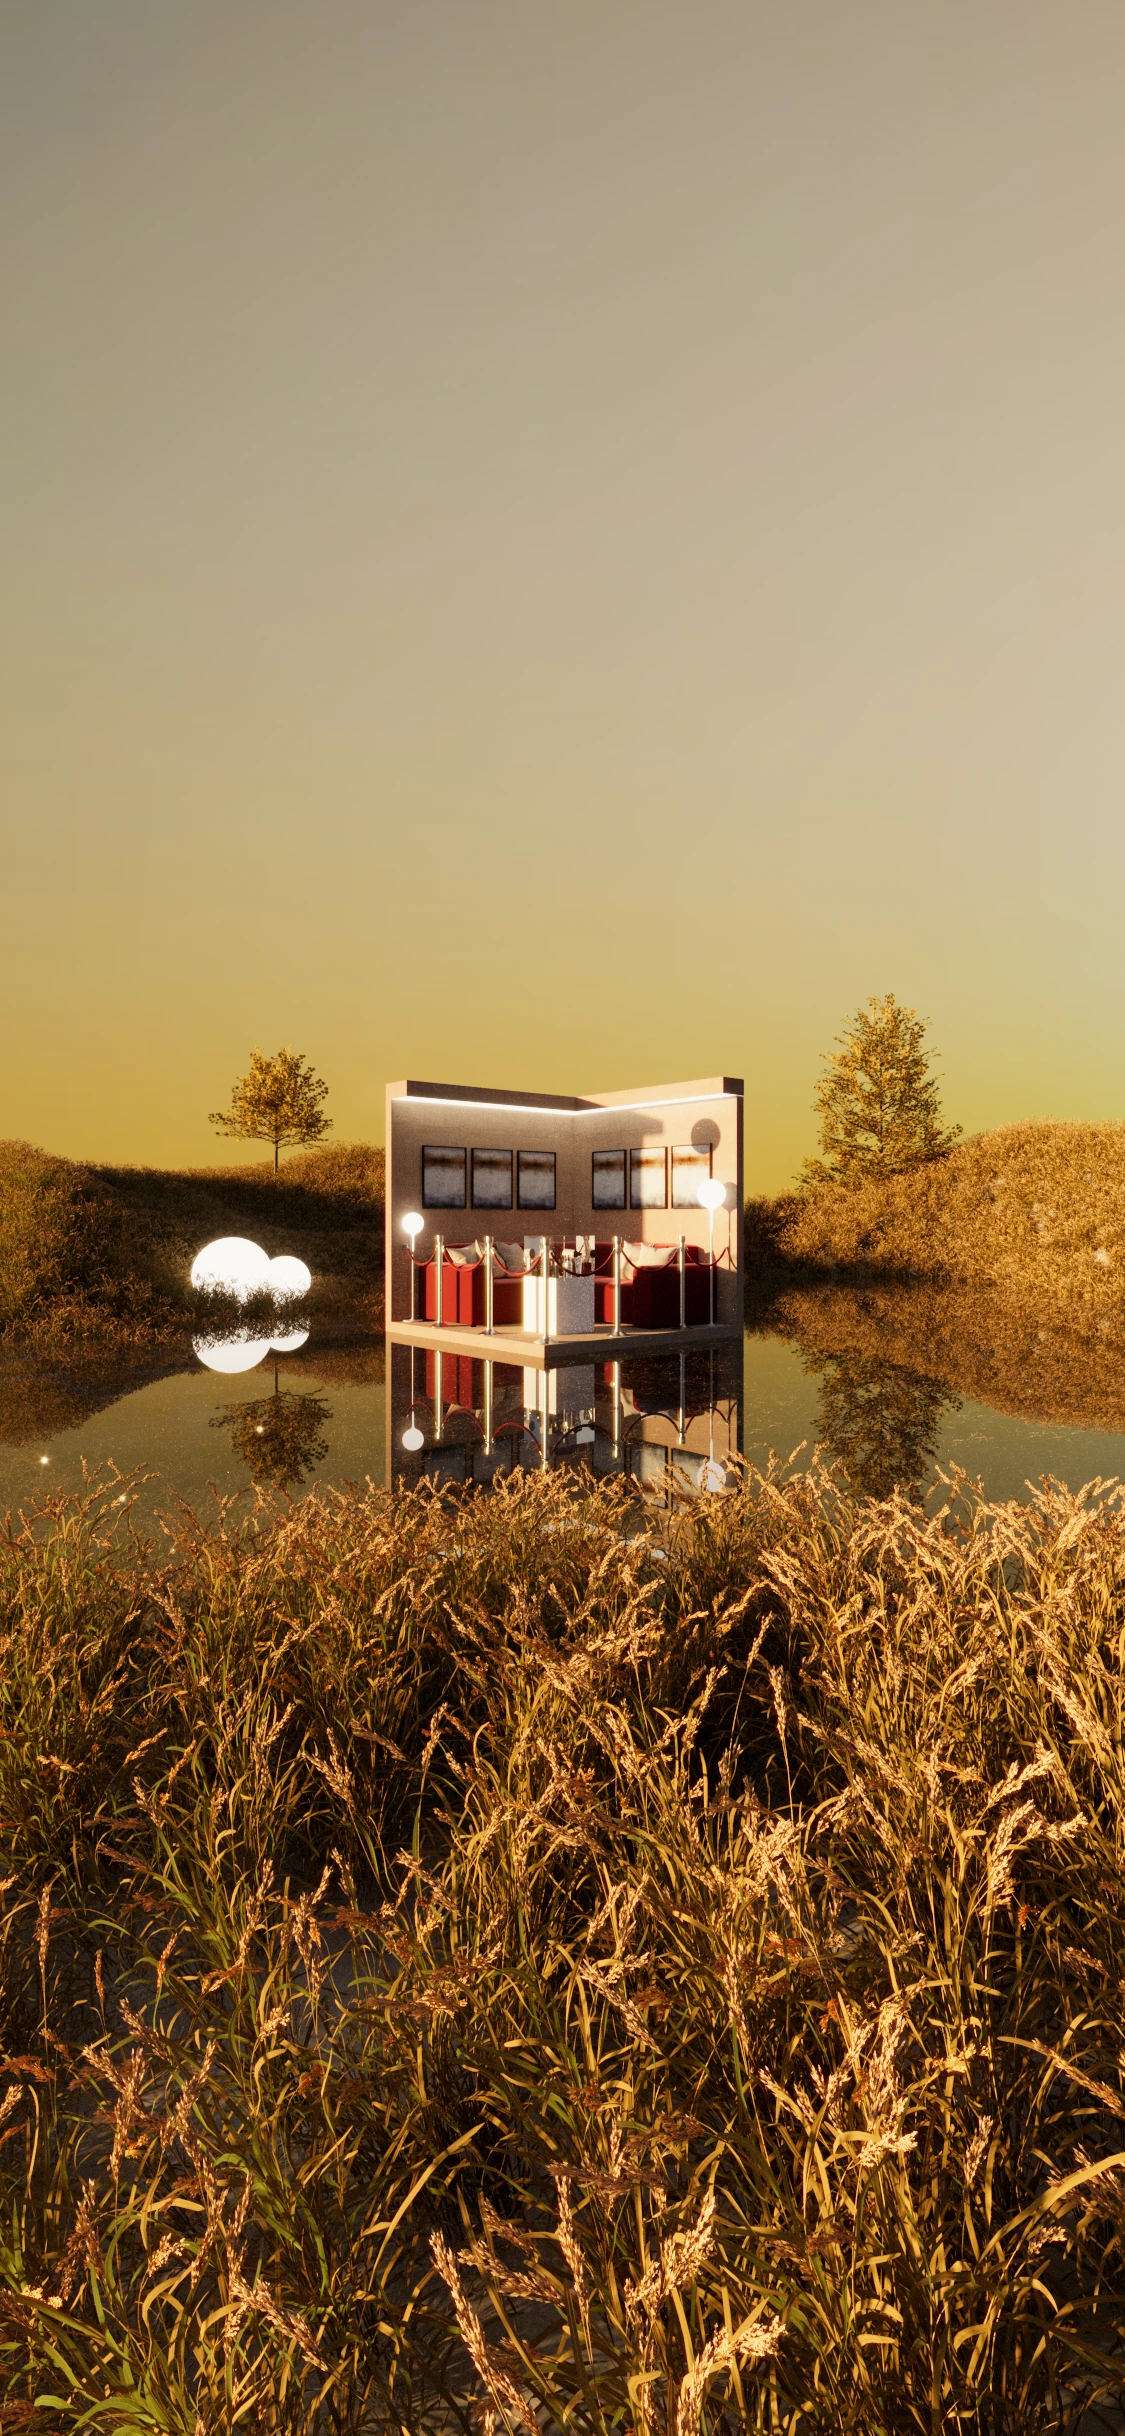
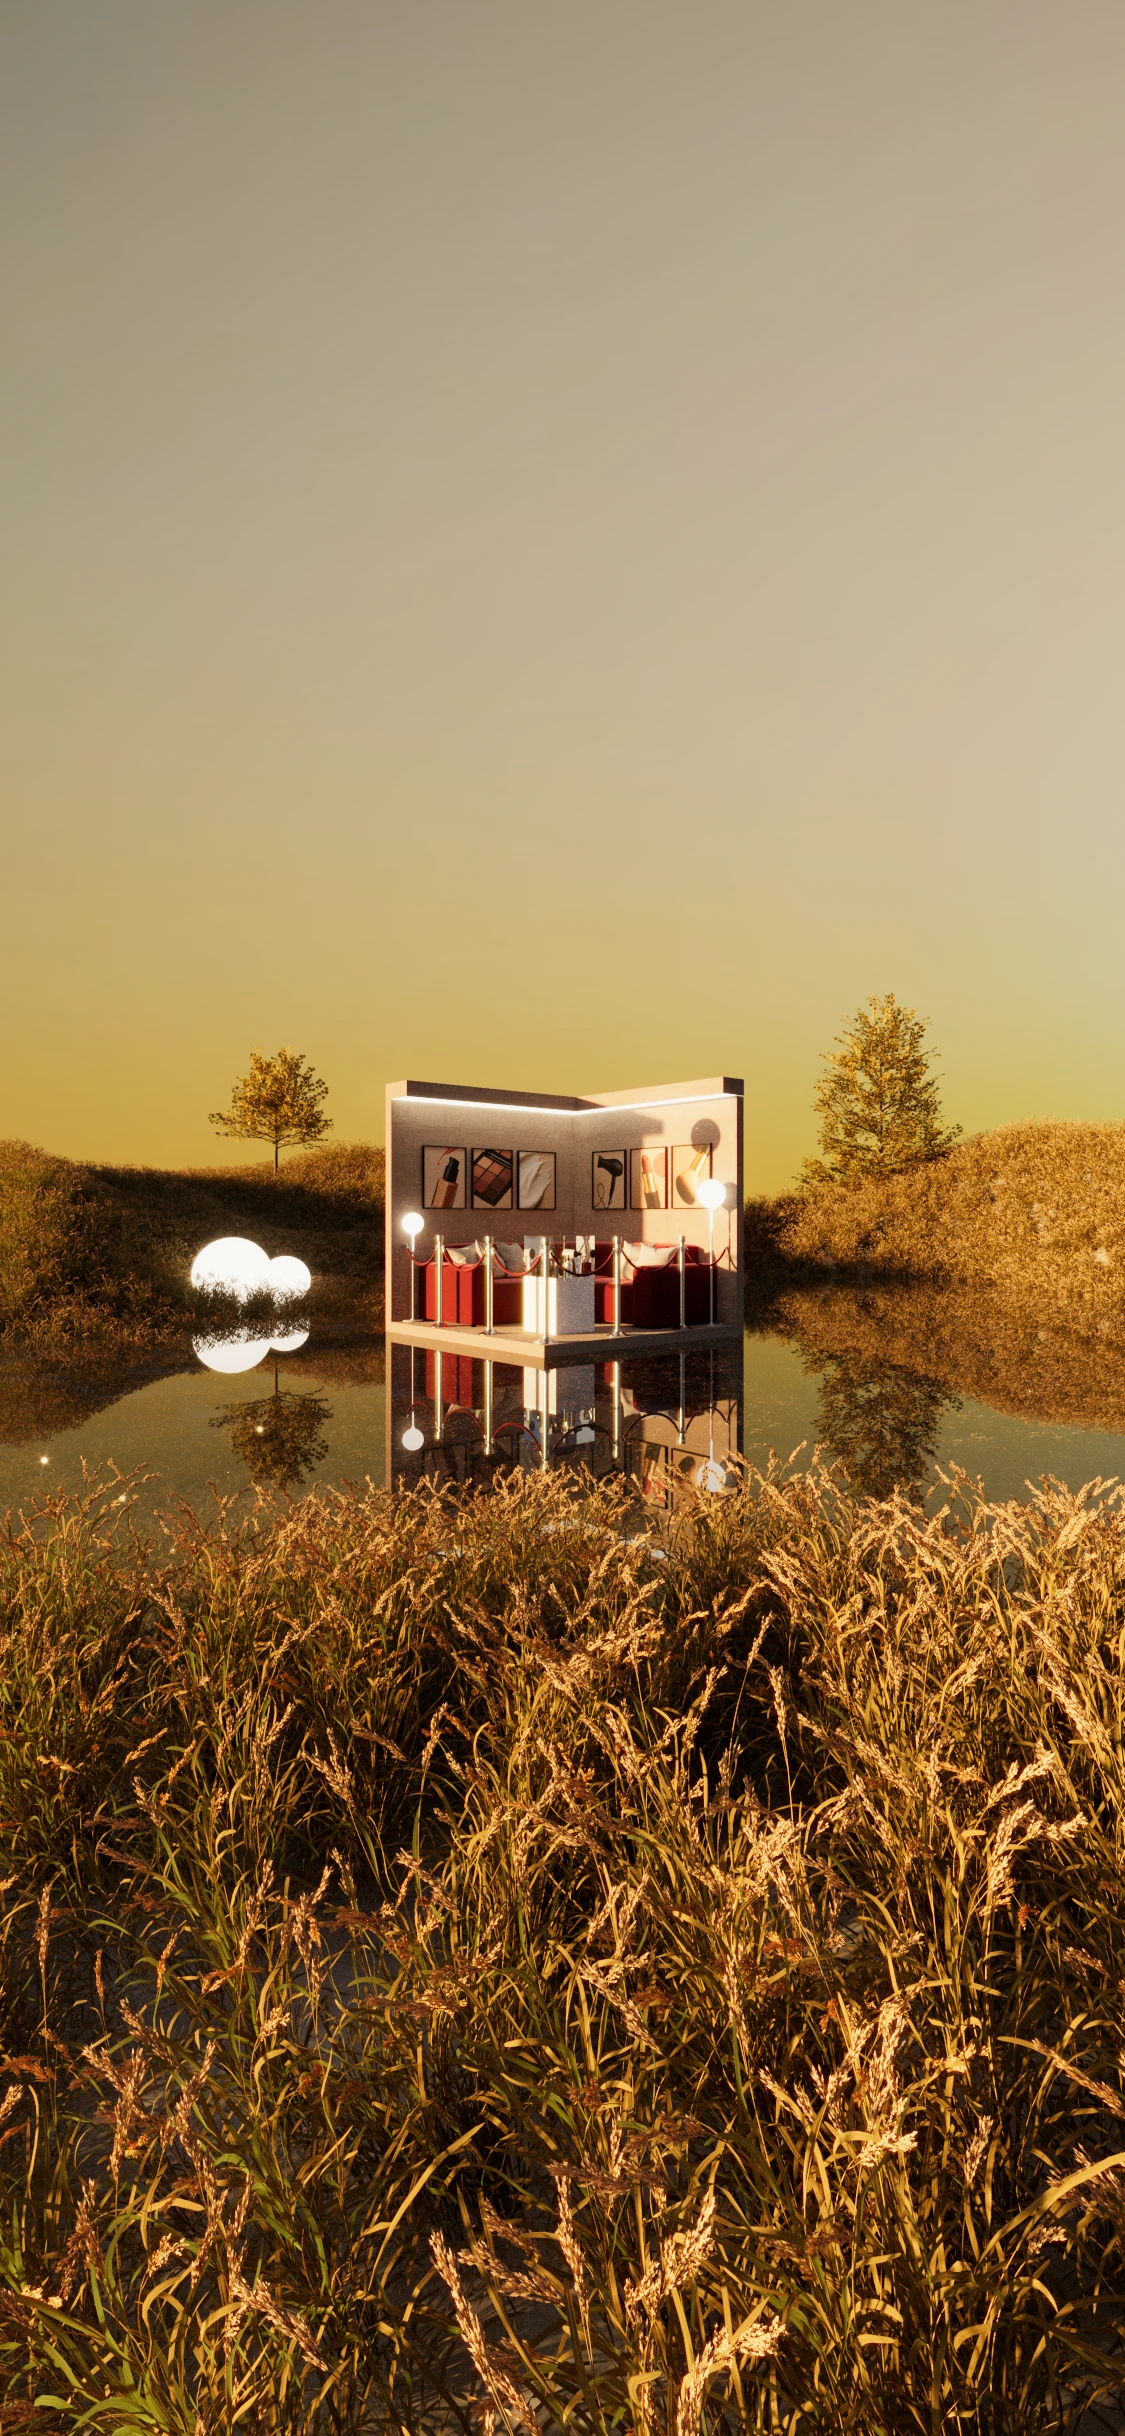
replaced wide images for mobile

diff --git a/src/app/dream-room/page.tsx b/src/app/dream-room/page.tsx
@@ -2,10 +2,9 @@
 import { useEffect } from 'react';
 import Image from 'next/image';
 import WideImage from '../../assets/images/autumn-far.webp';
-import WideImageMobile from '../../assets/images/autum-far-mobile.webp';
+import WideImageMobile from '../../assets/images/autumn-far-mobile.webp';
 import OverheadImage from '../../assets/images/autumn-aerial.webp';
 import OverheadImageMobile from '../../assets/images/autumn-aerial-mobile.webp';
-import ExpandedImage from '../../assets/images/autumn-expanded.webp';
 import './styles/index.css';
 import { useRouter } from 'next/navigation';
 import { motion } from 'framer-motion';
